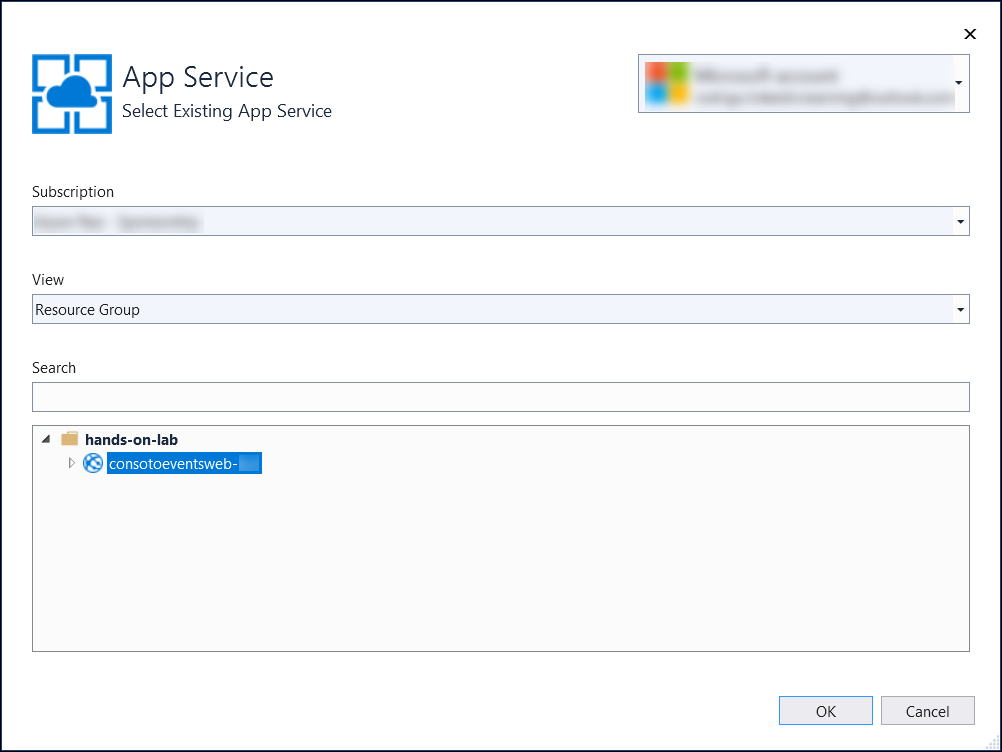
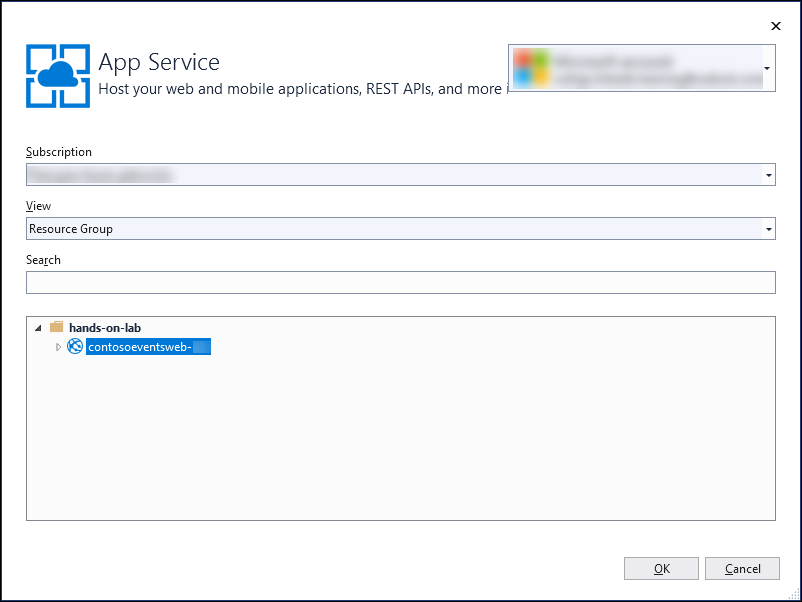
Fixed some references. Refreshed the Web application publishing screenshots

diff --git a/Hands-on lab/HOL step-by-step - Microservices architecture - Developer edition.md b/Hands-on lab/HOL step-by-step - Microservices architecture - Developer edition.md
@@ -865,27 +865,6 @@ In this task, you will retrieve the subscription key for the client applications
 
     ![The Unlimited (default) subscription\'s Primary key now displays, and is circled.](media/image150.png "Unlimited subscription's Primary key")
 
-5.  You now have the API Management application key you will need to configure the Function App settings.
-
-### Task 4: Configure the Function App with the API Management key
-
-In this task, you will provide the API Management key in a setting for the Function App, so it can reach the Web API through the API Management service.
-
-1.  From the Azure Portal, browse to the Function App.
-
-2.  You will create an Application setting for the function to provide it with the API Management consumer key.
-
-3.  Select your Function App in the side menu, then select Application settings under Configured features.
-
-    ![In the Function Apps pane, on the left under Function Apps, contosoeventsfn-SUFFIX is circled. On the right under Configured features, Application settings is circled.](media/image103.png "Function Apps")
-
-4.  In the Application settings section, select **+New application setting**, and enter **contosoeventsapimgrkey** into the name field, and paste the API key you copied from the Developer portal above into the value field.
-
-    ![In the Application settings section, in the name field displays contosoeventsapimgrkey. At the top, the Save and +New application setting buttons are circled.](media/image151.png "Application settings section")
-
-5.  Select **Save** to apply the change.
-
-
 ## Exercise 8: Configure and publish the web application
 
 Duration: 15 minutes
@@ -905,11 +884,11 @@ In this task, you will update configuration settings to communicate with the API
     
     ![In Solution Explorer, the following folders are expanded: Web\\ContosoEvents.Web\\Web.config.](media/image152.png "Solution Explorer")
 
-2.  For the apimng:BaseUrl key, enter the base URL of the API you created in the API Management Publisher Portal (Exercise 5, Task 1, Step 5), such as <https://contosoevents-SUFFIX.azure-api.net/>
+2.  For the apimng:BaseUrl key, enter the base URL of the API you created in the API Management Publisher Portal (Exercise 7, Task 1, Step 6), such as <https://contosoevents-SUFFIX.azure-api.net/>
 
     > **Note**: Make sure to use only the domain name, and include a trailing "/" or the exercise will not work.
 
-3.  For the apimng:SubscriptionKey key, enter the subscription key you revealed in API Management developer portal (Exercise 5, Task 3, Step 3).
+3.  For the apimng:SubscriptionKey key, enter the subscription key you revealed in API Management developer portal (Exercise 7, Task 3, Step 3).
 
 4.  Save Web.config. You should have values for two of the API Management app settings.
 
